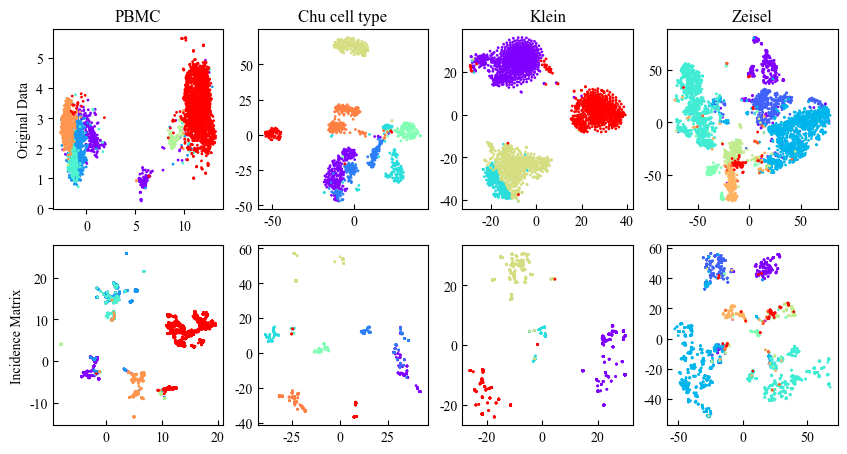
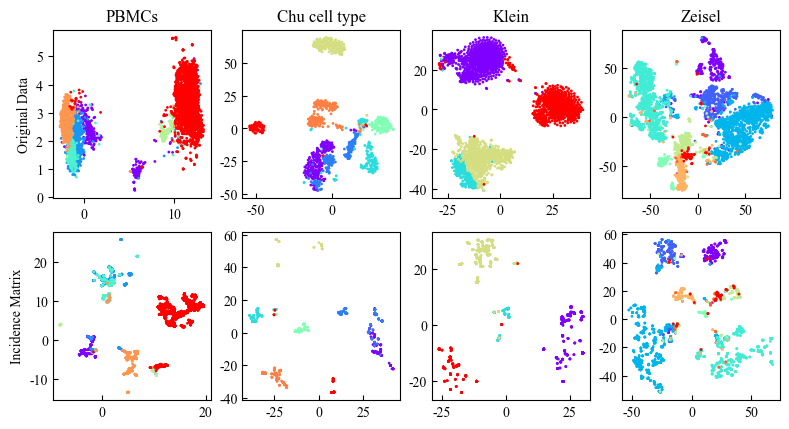
updates

diff --git a/src/Paint.py b/src/Paint.py
@@ -148,7 +148,7 @@ def draw_scatter_across_datasets(datasets, n_clusters):
 
 
 if __name__ == '__main__':
-    draw_scatter_across_datasets(['PBMC', 'Chu cell type', 'Klein', 'Zeisel'], [6, 7, 4, 9])
+    draw_scatter_across_datasets(['PBMCs', 'Chu cell type', 'Klein', 'Zeisel'], [6, 7, 4, 9])
     # paint_scatter_together('data', 9, '_UMAP_')
     # paint_bars_together(dataset='data', ensemble=[0.8071794121270436, 0.7609870645709287])
     # paint_bars_together(dataset='PBMC', ensemble=[0.8640, 0.7430])
